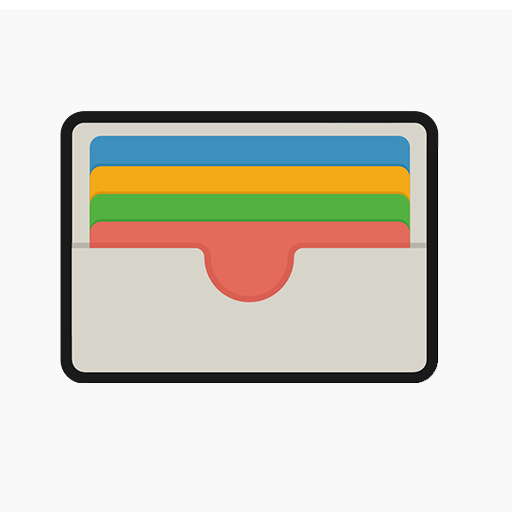
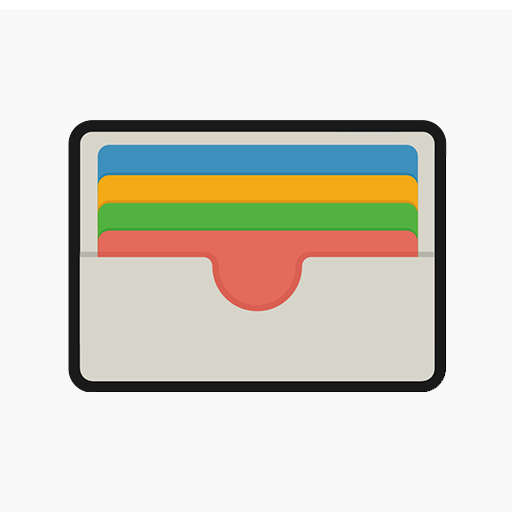
fix

Changed region(s): [[0.0938, 0.2188, 0.875, 0.7812]]

diff --git a/loyalty-card-pwa/public/service-worker.js b/loyalty-card-pwa/public/service-worker.js
@@ -1,4 +1,4 @@
-const CACHE_NAME = '1.5.9';
+const CACHE_NAME = '1.6.0';
 
 const urlsToCache = [
     '/index.html',
